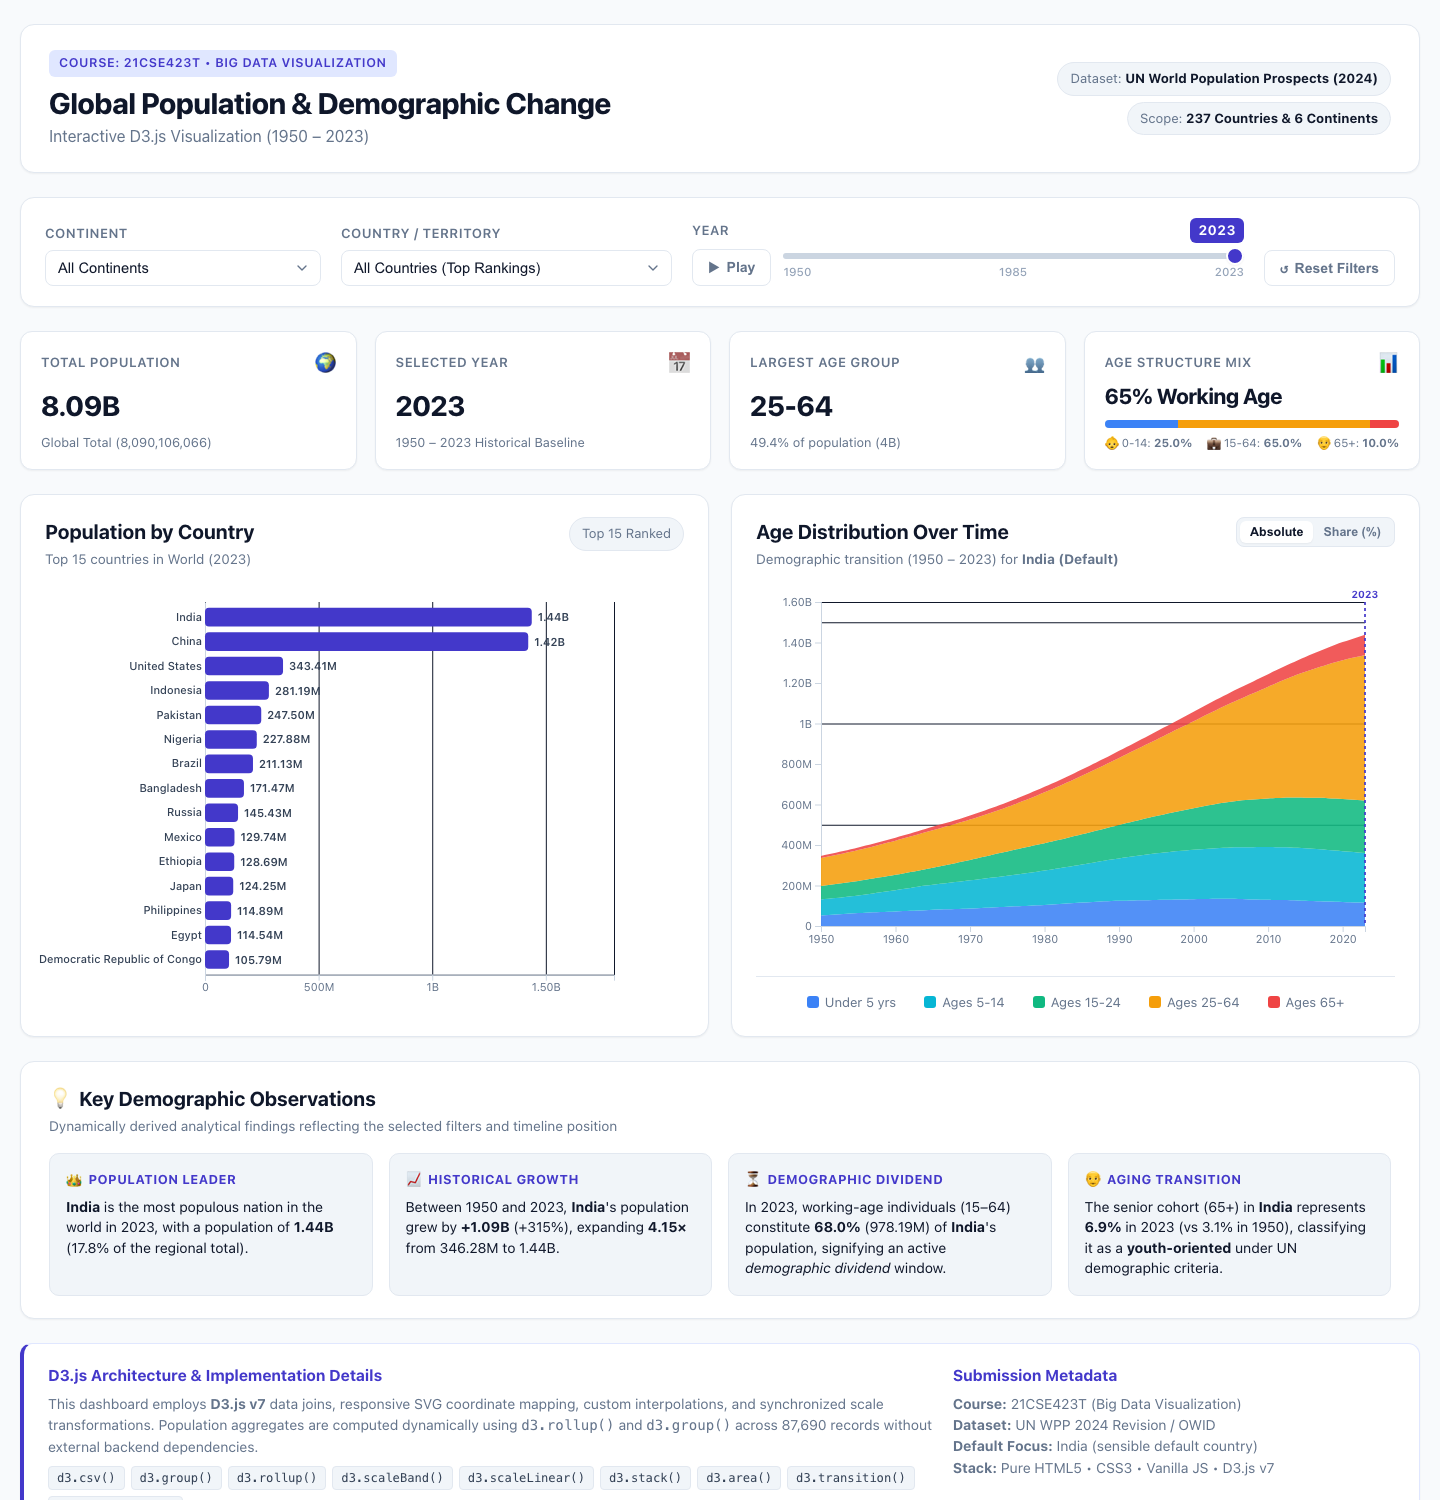
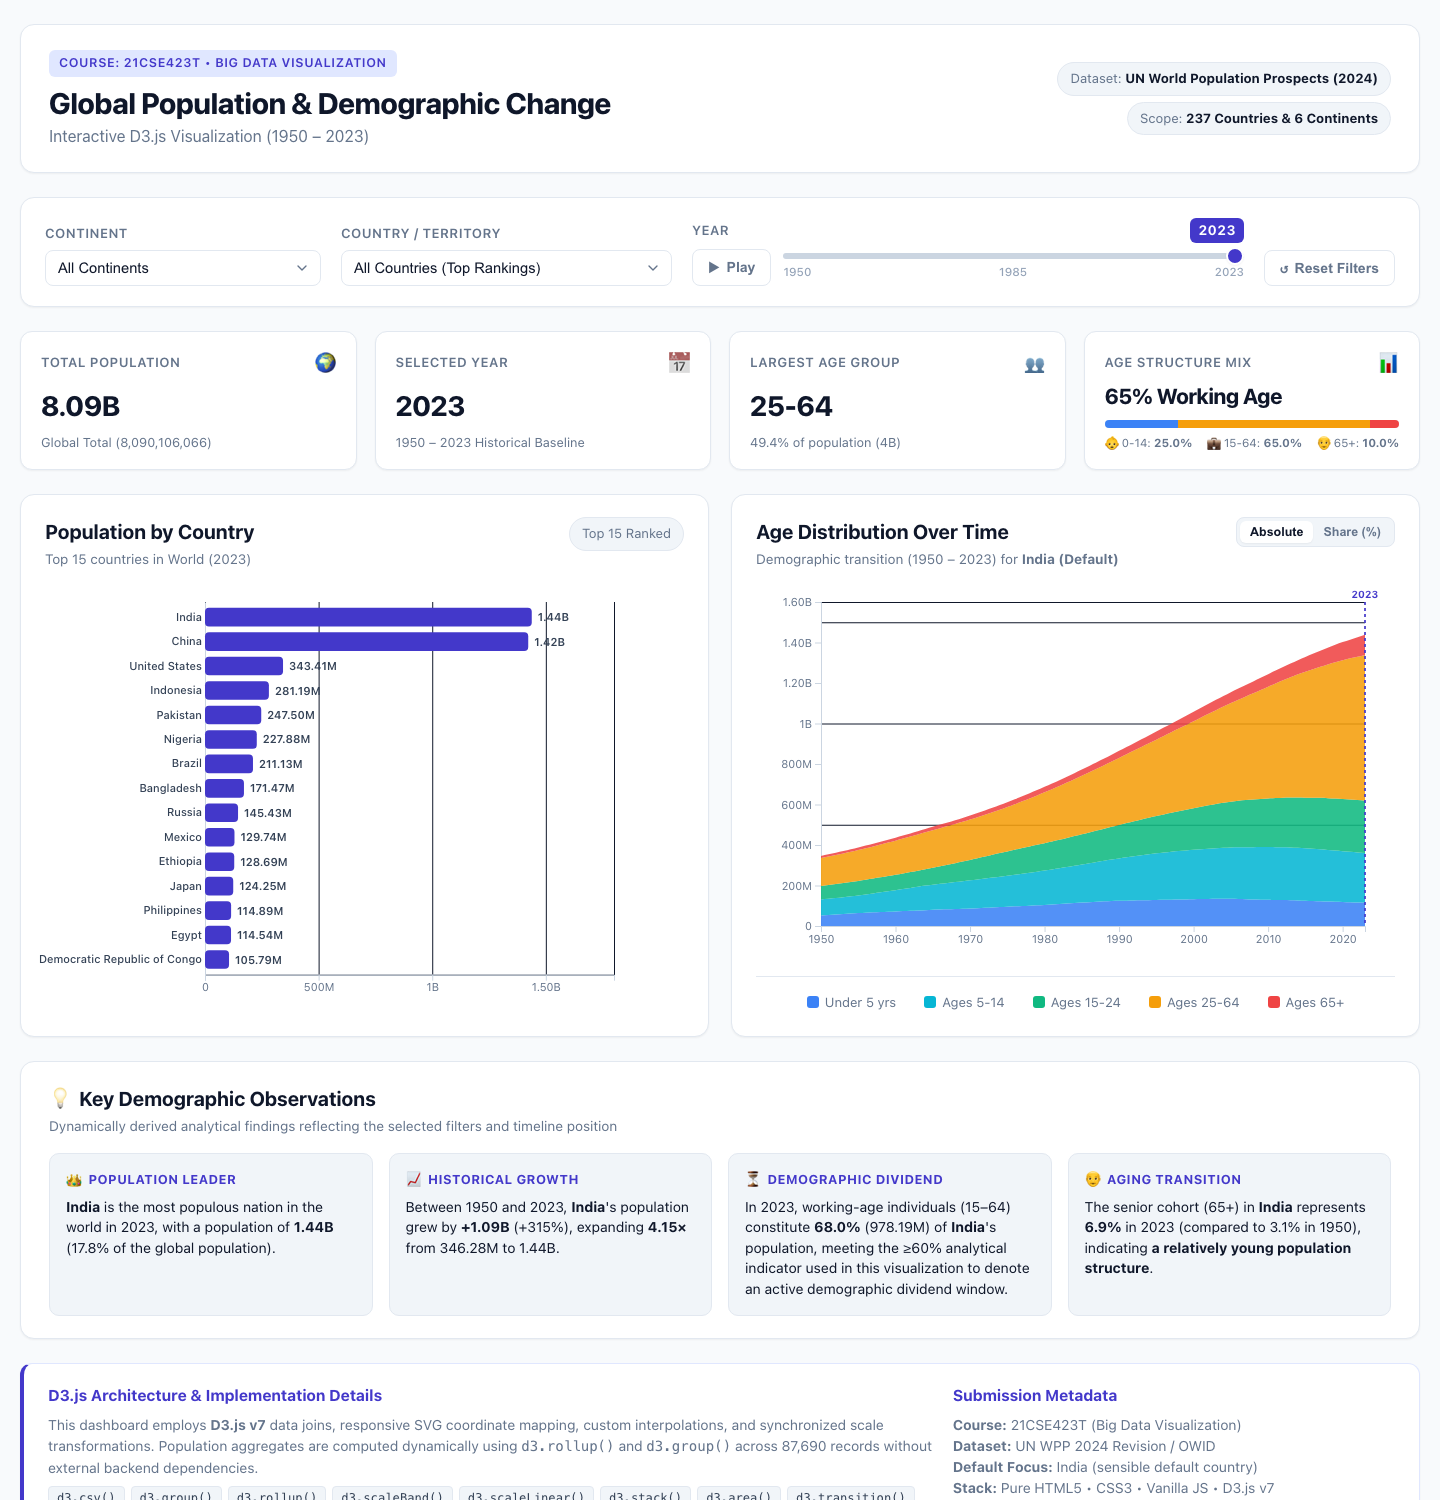
fix(audit): refine demographic observations, tooltip year distinction, and percentage summing

Changed region(s): [[0.0312, 0.828, 0.875, 1.0], [0.75, 0.7973, 0.9375, 0.8587], [0.125, 0.828, 0.1875, 0.8587]]

diff --git a/js/app.js b/js/app.js
@@ -510,22 +510,21 @@ function updateKPIs() {
   const workCount = ageTotals['15-24'] + ageTotals['25-64'];
   const elderCount = ageTotals['65+'];
 
-  const youngPct = totalPop > 0 ? (youngCount / totalPop) * 100 : 0;
-  const workPct = totalPop > 0 ? (workCount / totalPop) * 100 : 0;
-  const elderPct = totalPop > 0 ? (elderCount / totalPop) * 100 : 0;
+  const [youngPctStr, workPctStr, elderPctStr] = roundPercentages([youngCount, workCount, elderCount], 100, 1);
+  const workRatioDisplay = Math.round(parseFloat(workPctStr));
 
-  document.getElementById('kpi-ratio-val').textContent = `${workPct.toFixed(0)}% Working Age`;
-  document.getElementById('pct-young').textContent = `${youngPct.toFixed(1)}%`;
-  document.getElementById('pct-work').textContent = `${workPct.toFixed(1)}%`;
-  document.getElementById('pct-elder').textContent = `${elderPct.toFixed(1)}%`;
+  document.getElementById('kpi-ratio-val').textContent = `${workRatioDisplay}% Working Age`;
+  document.getElementById('pct-young').textContent = `${youngPctStr}%`;
+  document.getElementById('pct-work').textContent = `${workPctStr}%`;
+  document.getElementById('pct-elder').textContent = `${elderPctStr}%`;
 
   const segYoung = document.getElementById('seg-young');
   const segWork = document.getElementById('seg-work');
   const segElder = document.getElementById('seg-elder');
   if (segYoung && segWork && segElder) {
-    segYoung.style.width = `${youngPct}%`;
-    segWork.style.width = `${workPct}%`;
-    segElder.style.width = `${elderPct}%`;
+    segYoung.style.width = `${youngPctStr}%`;
+    segWork.style.width = `${workPctStr}%`;
+    segElder.style.width = `${elderPctStr}%`;
   }
 }
 
@@ -678,7 +677,7 @@ function updateBarChart(skipTransition = false) {
       const html = `
         <div class="tooltip-title">${d.country}</div>
         <div class="tooltip-row"><span>Continent:</span><strong>${d.continent}</strong></div>
-        <div class="tooltip-row"><span>Year:</span><strong>${selectedYear}</strong></div>
+        <div class="tooltip-row"><span>Timeline Year:</span><strong>${selectedYear}</strong></div>
         <div class="tooltip-row"><span>Population:</span><strong>${formatPopulation(d.population)}</strong></div>
         <div class="tooltip-row"><span>Relative to Leader:</span><strong>${shareOfTotal}%</strong></div>
         <div style="font-size:0.75rem;color:#94a3b8;margin-top:6px;border-top:1px solid rgba(255,255,255,0.1);padding-top:4px;">
@@ -926,11 +925,15 @@ function updateAreaChart(skipTransition = false) {
         .attr('x2', posX)
         .style('opacity', 1);
 
-      // Tooltip HTML content
+      // Tooltip HTML content with exact rounded percentages summing to 100%
+      const cohortLabels = CONFIG.ageGroups.slice().reverse();
+      const cohortCounts = cohortLabels.map(grp => datum[grp] || 0);
+      const cohortPcts = roundPercentages(cohortCounts, 100, 1);
+
       let rowsHtml = '';
-      CONFIG.ageGroups.slice().reverse().forEach(grp => {
-        const count = datum[grp] || 0;
-        const pct = datum.total > 0 ? ((count / datum.total) * 100).toFixed(1) : 0;
+      cohortLabels.forEach((grp, idx) => {
+        const count = cohortCounts[idx];
+        const pct = cohortPcts[idx];
         rowsHtml += `
           <div class="tooltip-row">
             <span><span class="tooltip-badge" style="background:${CONFIG.ageColors[grp]}"></span>${grp}:</span>
@@ -940,14 +943,22 @@ function updateAreaChart(skipTransition = false) {
       });
 
       const tooltipContent = `
-        <div class="tooltip-title">${targetCountry} &bull; ${datum.year}</div>
+        <div class="tooltip-title">${targetCountry}</div>
+        <div class="tooltip-row" style="margin-bottom:3px;">
+          <span>Hover Year:</span>
+          <strong style="color:#38bdf8;">${datum.year}</strong>
+        </div>
+        <div class="tooltip-row" style="margin-bottom:6px;border-bottom:1px solid rgba(255,255,255,0.15);padding-bottom:4px;">
+          <span>Timeline Slider:</span>
+          <strong>${state.selectedYear}</strong>
+        </div>
         <div class="tooltip-row" style="margin-bottom:6px;border-bottom:1px solid rgba(255,255,255,0.1);padding-bottom:4px;">
-          <span>Total Population:</span>
+          <span>Total Population (${datum.year}):</span>
           <strong>${formatPopulation(datum.total)}</strong>
         </div>
         ${rowsHtml}
         <div style="font-size:0.74rem;color:#94a3b8;margin-top:6px;border-top:1px solid rgba(255,255,255,0.1);padding-top:4px;">
-          👉 Click to jump year slider to ${datum.year}
+          👉 Click to jump timeline slider to ${datum.year}
         </div>
       `;
       showTooltip(tooltipContent, event);
@@ -1033,10 +1044,15 @@ function updateObservations() {
   const leaderElem = document.getElementById('obs-leader');
   if (topCountry && leaderElem) {
     const share = regionTotal > 0 ? ((topCountry.total / regionTotal) * 100).toFixed(1) : 0;
-    const regionName = selectedContinent === 'All' ? 'the world' : selectedContinent;
+    const isGlobal = selectedContinent === 'All';
+    const regionName = isGlobal ? 'the world' : selectedContinent;
+    const sharePhrase = isGlobal 
+      ? `${share}% of the global population` 
+      : `${share}% of the selected continent's population`;
+
     leaderElem.innerHTML = `
       <strong>${topCountry.country}</strong> is the most populous nation in ${regionName} in ${selectedYear}, 
-      with a population of <strong>${formatCompact(topCountry.total)}</strong> (${share}% of the regional total).
+      with a population of <strong>${formatCompact(topCountry.total)}</strong> (${sharePhrase}).
     `;
   }
 
@@ -1067,11 +1083,14 @@ function updateObservations() {
     const workAge = (current['15-24'] || 0) + (current['25-64'] || 0);
     const workPct = current.total > 0 ? ((workAge / current.total) * 100).toFixed(1) : 0;
     const isDividend = workPct >= 60;
+    const dividendNote = isDividend
+      ? 'meeting the &ge;60% analytical indicator used in this visualization to denote an active demographic dividend window.'
+      : 'reflecting a shifting age dependency balance based on the analytical indicator used in this visualization.';
 
     dividendElem.innerHTML = `
       In ${selectedYear}, working-age individuals (15–64) constitute <strong>${workPct}%</strong> 
       (${formatCompact(workAge)}) of <strong>${targetCountry}</strong>'s population, 
-      ${isDividend ? 'signifying an active <em>demographic dividend</em> window.' : 'indicating a shifting age dependency balance.'}
+      ${dividendNote}
     `;
   }
 
@@ -1083,16 +1102,17 @@ function updateObservations() {
     const elderlyCurrentPct = current.total > 0 ? ((current['65+'] / current.total) * 100).toFixed(1) : 0;
     const elderlyInitialPct = initial.total > 0 ? ((initial['65+'] / initial.total) * 100).toFixed(1) : 0;
 
-    let agingStatus = 'youth-oriented';
-    if (elderlyCurrentPct >= 14) agingStatus = 'aged society (super-aging)';
-    else if (elderlyCurrentPct >= 7) agingStatus = 'aging society';
-
-    const article = (agingStatus === 'aged society (super-aging)' || agingStatus === 'aging society') ? 'an' : 'a';
+    let agingDescription = 'a relatively young population structure';
+    if (elderlyCurrentPct >= 14) {
+      agingDescription = 'a higher share of older population';
+    } else if (elderlyCurrentPct >= 7) {
+      agingDescription = 'a population aging trend';
+    }
 
     agingElem.innerHTML = `
       The senior cohort (65+) in <strong>${targetCountry}</strong> represents 
-      <strong>${elderlyCurrentPct}%</strong> in ${selectedYear} (vs ${elderlyInitialPct}% in 1950), 
-      classifying it as ${article} <strong>${agingStatus}</strong> under UN demographic criteria.
+      <strong>${elderlyCurrentPct}%</strong> in ${selectedYear} (compared to ${elderlyInitialPct}% in 1950), 
+      indicating <strong>${agingDescription}</strong>.
     `;
   }
 }
@@ -1120,6 +1140,27 @@ function formatCompact(num) {
   return num.toString();
 }
 
+function roundPercentages(values, targetSum = 100, decimals = 1) {
+  const factor = Math.pow(10, decimals);
+  const targetScaled = Math.round(targetSum * factor);
+  
+  const total = values.reduce((a, b) => a + b, 0);
+  if (total === 0) return values.map(() => (0).toFixed(decimals));
+
+  const scaled = values.map(v => (v / total) * targetSum * factor);
+  const floored = scaled.map(Math.floor);
+  let remainder = targetScaled - floored.reduce((a, b) => a + b, 0);
+
+  const diffs = scaled.map((s, i) => ({ index: i, diff: s - floored[i] }));
+  diffs.sort((a, b) => b.diff - a.diff);
+
+  for (let i = 0; i < remainder; i++) {
+    floored[diffs[i].index]++;
+  }
+
+  return floored.map(f => (f / factor).toFixed(decimals));
+}
+
 function debounce(func, wait) {
   let timeout;
   return function(...args) {
@@ -1127,3 +1168,4 @@ function debounce(func, wait) {
     timeout = setTimeout(() => func.apply(this, args), wait);
   };
 }
+

diff --git a/README.md b/README.md
@@ -26,8 +26,7 @@ This project satisfies the coursework requirements for **21CSE423T: Big Data Vis
 ## 3. Project Objectives
 - **Data Engineering:** Preprocess multi-cohort UN population records into an indexed, normalized format with accurate ISO country-to-continent regional mappings.
 - **Interactive Multi-View Coordination:** Synchronize a responsive horizontal bar chart, a multi-layer stacked area chart, and summary KPI cards.
-- **D3.js Methodological Rigor:** Apply core D3.js concepts including scale transformations (`scaleBand`, `scaleLinear`), stack generators (`d3.stack`), area generators (`d3.area`), animated transitions (`d3.transition`), and dynamic rollup aggregations (`d3.rollup`, `d3.group`).
-- **Academically Defensible Analysis:** Dynamically generate factual observations without hardcoded statistics, demonstrating demographic transitions (youth-oriented, dividend windows, and super-aging societies).
+- **Academically Defensible Analysis:** Dynamically generate factual observations without hardcoded statistics, demonstrating demographic shifts (relatively young population structures, working-age indicators, and population aging trends).
 
 ---
 
@@ -207,7 +206,7 @@ The project includes pre-rendered, high-resolution screenshots generated in head
 3. **[`03_stacked_area_percentage_mode.png`](file:///Users/rahulseervi/Documents/GitHub/big-data-visualization/screenshots/03_stacked_area_percentage_mode.png):**  
    100% normalized demographic transition showing India's working-age expansion from 55% in 1970 to 68% in 2023.
 4. **[`04_country_japan_super_aging.png`](file:///Users/rahulseervi/Documents/GitHub/big-data-visualization/screenshots/04_country_japan_super_aging.png):**  
-   Japan case study showing super-aging transition (65+ cohort reaching 29.5% in 2023 vs 4.9% in 1950).
+   Japan case study showing pronounced population aging trend (65+ cohort reaching 29.5% in 2023 vs 4.9% in 1950).
 5. **[`05_historical_year_1970.png`](file:///Users/rahulseervi/Documents/GitHub/big-data-visualization/screenshots/05_historical_year_1970.png):**  
    Historical 1970 baseline (3.69B world population) with China as the global leader (823.31M).
 

diff --git a/REPORT.md b/REPORT.md
@@ -82,10 +82,10 @@ Global population expanded from **2.50 billion in 1950** to **8.09 billion in 20
 - **Africa:** Represents the youngest and fastest-growing continental profile. Youth (ages 0–14) comprise **39.4%** of Africa's population in 2023, whereas senior citizens (65+) represent only **3.6%**. Nigeria leads the continent at **227.88 million**.
 - **Europe:** Exhibits structural population stagnation and advanced aging. Several European nations demonstrate a contraction in under-5 cohorts with elderly proportions exceeding **20%**.
 
-### 5.3 Demographic Dividend vs. Super-Aging
-Comparing the demographic transitions of **India** and **Japan** highlights contrasting phases of the demographic transition:
-- **India (Demographic Dividend Phase):** Working-age individuals (15–64) comprise **68.0% (978 million)** of the population in 2023, up from 55% in 1970. This creates an economically advantageous low dependency ratio.
-- **Japan (Super-Aging Phase):** Senior citizens (65+) represent **29.5%** of Japan's population in 2023 (up from 4.9% in 1950), while children under 5 account for less than **4%**, establishing Japan as a classic "super-aged" society under United Nations classification criteria.
+### 5.3 Demographic Dividend vs. Advanced Population Aging
+Comparing the demographic transitions of **India** and **Japan** highlights contrasting phases of cohort distribution:
+- **India (Demographic Dividend Phase):** Working-age individuals (15–64) comprise **68.0% (978 million)** of the population in 2023, up from 55% in 1970. This meets the $\ge 60\%$ analytical threshold indicator used in this visualization to denote an active demographic dividend window.
+- **Japan (Pronounced Population Aging):** Senior citizens (65+) represent **29.5%** of Japan's population in 2023 (up from 4.9% in 1950), while children under 5 account for less than **4%**, reflecting a higher share of older population and a pronounced population aging trend.
 
 ---
 

diff --git a/PRESENTATION.md b/PRESENTATION.md
@@ -104,7 +104,7 @@
    - Click on the bar for **"Japan"** (or select Japan from dropdown).
    - Click the **"Share (%)"** toggle on the area chart.
    - Show Japan's demographic transition: the red 65+ cohort dramatically expands to 29.5%, while the blue under-5 cohort shrinks to under 4%.
-   - Point to the **Key Observations** card dynamically reporting: *"classifying it as an aged society (super-aging) under UN demographic criteria."*
+   - Point to the **Key Observations** card dynamically reporting: *"indicating a higher share of older population."*
 5. **Interactive Legend & Tooltips:**
    - Hover over the **"Ages 65+"** legend item to highlight that layer while dimming the others.
    - Hover across the area chart to demonstrate the crosshair and multi-cohort tooltip.
